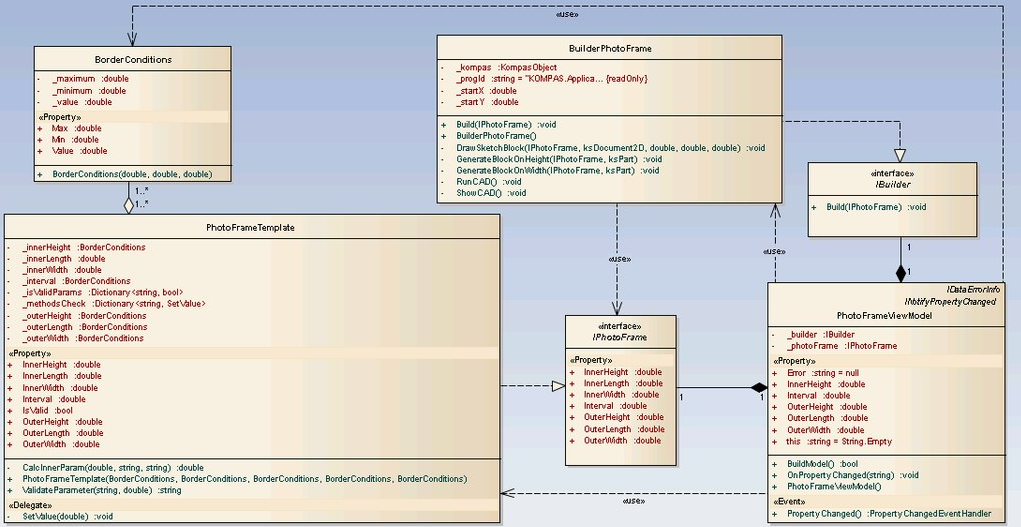
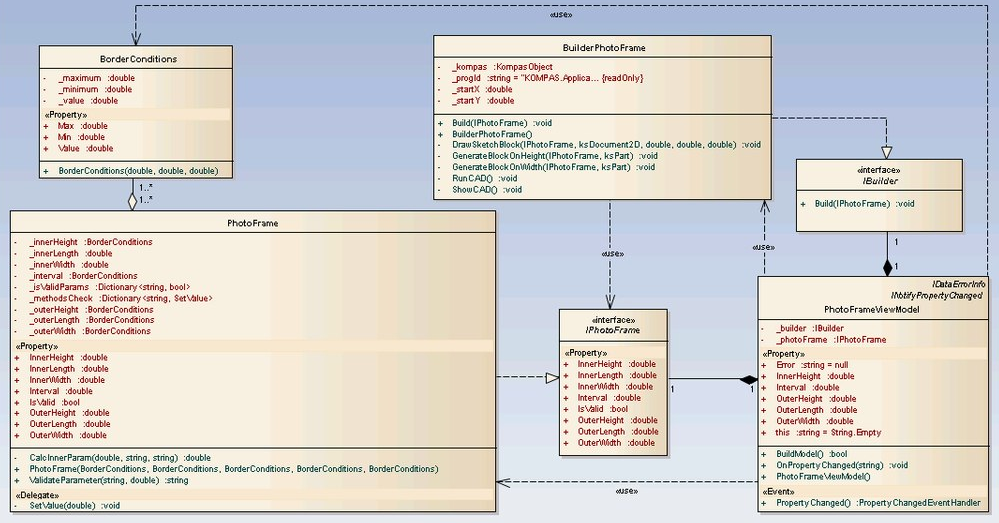
Refactor: renamed PhotoFrameTemplate -> PhotoFrame, fixing name in code and uml diagram classes

Changed region(s): [[0.0, 0.0, 0.993, 1.0], [0.7447, 0.4589, 0.7758, 0.4895]]

diff --git a/FotoFrameModel.Tests/PhotoFrameTemplate.cs b/FotoFrameModel.Tests/PhotoFrameTemplate.cs
@@ -17,7 +17,7 @@ namespace FotoFrameModel.Tests
         private const double _biggest = _max + 1000.0f;
         private const double _norm = _minForLengthAndWidth;
 
-        private PhotoFrameTemplate _photoFrame;
+        private PhotoFrame _photoFrame;
         private IPhotoFrame _frame;
 
         [SetUp]
@@ -31,7 +31,7 @@ namespace FotoFrameModel.Tests
         /// Создать экземпляр класса PhotoFrameTemplate.
         /// </summary>
         /// <returns>Возвращает экземпляр класса PhotoFrameTemplate.</returns>
-        public static PhotoFrameTemplate GeneratePhotoFrameTemplate()
+        public static PhotoFrame GeneratePhotoFrameTemplate()
         {
             var outerWidth = new BorderConditions(_minForLengthAndWidth,
                 _max, _max);
@@ -44,7 +44,7 @@ namespace FotoFrameModel.Tests
             var interval = new BorderConditions(_minHeight,
                 _value, _maxInterval);
 
-            return new PhotoFrameTemplate(outerWidth,
+            return new PhotoFrame(outerWidth,
                 outerHeight,
                 outerLength,
                 innerHeight,

diff --git a/FotoFrameModel/PhotoFrame.cs b/FotoFrameModel/PhotoFrame.cs
@@ -55,7 +55,7 @@ namespace FotoFrameModel
     /// <summary>
     /// Шаблон фоторамки
     /// </summary>
-    public class PhotoFrameTemplate : IPhotoFrame
+    public class PhotoFrame : IPhotoFrame
     {
         /// <summary>
         /// Внешняя ширина
@@ -106,7 +106,7 @@ namespace FotoFrameModel
         /// <param name="interval">Граничные условия
         ///     для расстояния между внутренней и внешней частями
         ///     фоторамки.</param>
-        public PhotoFrameTemplate(
+        public PhotoFrame(
             BorderConditions outerWidth,
             BorderConditions outerHeight,
             BorderConditions outerLength,

diff --git a/FotoFrameViewVM/PhotoFrameViewModel.cs b/FotoFrameViewVM/PhotoFrameViewModel.cs
@@ -43,7 +43,7 @@ namespace FotoFrameViewVM
             var interval = new BorderConditions(minHeight,
                 value, maxInterval);
 
-            _photoFrame = new PhotoFrameTemplate(outerWidth,
+            _photoFrame = new PhotoFrame(outerWidth,
                 outerHeight,
                 outerLength,
                 innerHeight,
